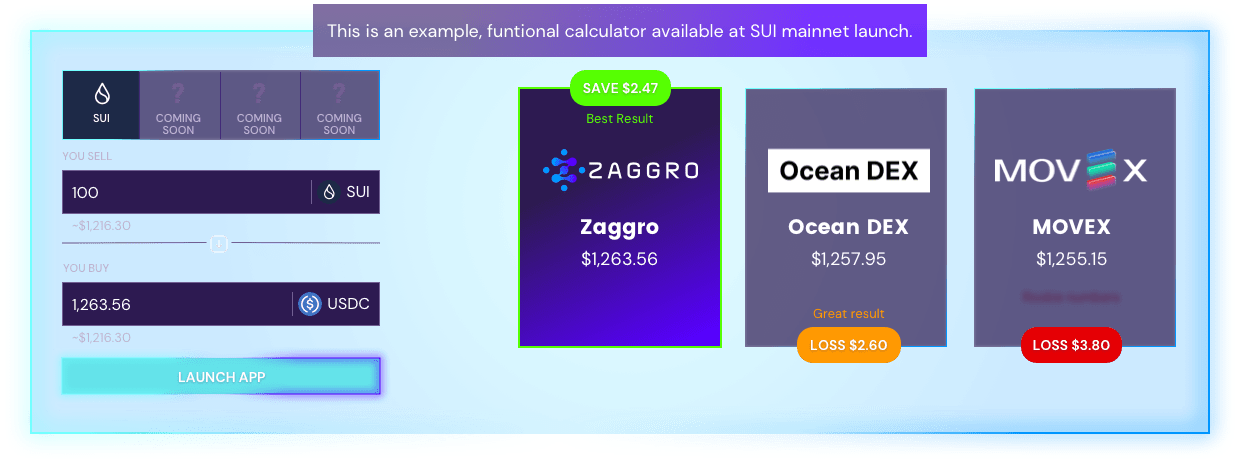
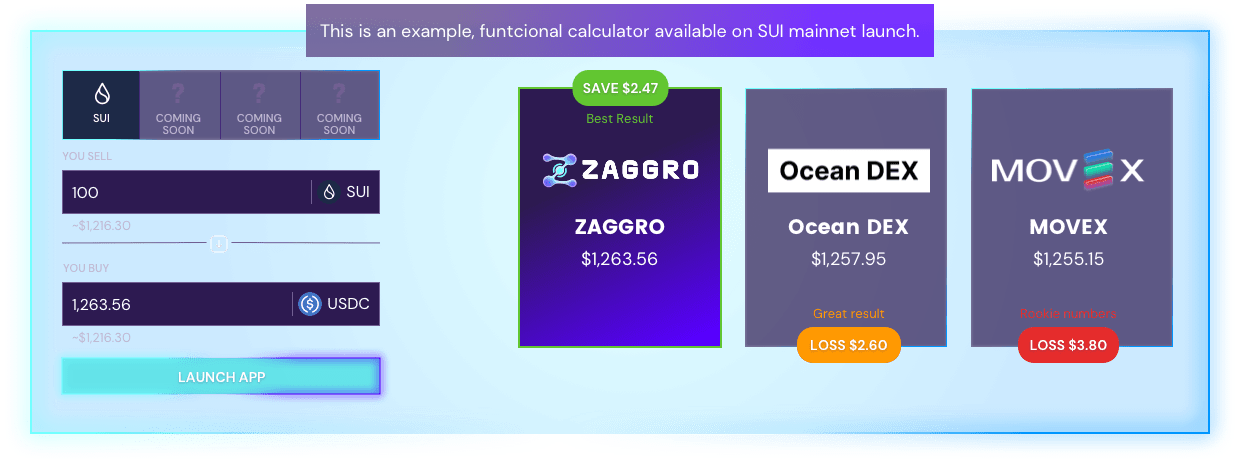
Replace images

diff --git a/components/Homepage/Calculator/Calculator.tsx b/components/Homepage/Calculator/Calculator.tsx
@@ -8,20 +8,21 @@ interface CalculatorProps {
 }
 
 function Calculator({ className }: CalculatorProps) {
-  const { isTablet } = useViewportSize()
+  const { isPhablet } = useViewportSize()
 
   return (
     <section className={clsx(styles.root, className)}>
       <SectionHeader title="ZAGGRO gives you MORE" />
       <div className={styles.imageContainer}>
-        {isTablet ? (
+        {isPhablet ? (
           <img
-            src="/images/screenshots/calculator-desktop.png"
+            src="/images/screenshots/calculator-desktop@2.png"
             alt="Preview of the ZAGGRO calculator"
+            className={styles.desktopImage}
           />
         ) : (
           <img
-            src="/images/screenshots/calculator-mobile.png"
+            src="/images/screenshots/calculator-mobile@2.png"
             alt="Preview of the ZAGGRO calculator"
             className={styles.mobileImage}
           />

diff --git a/components/Homepage/AppPreview/AppPreview.tsx b/components/Homepage/AppPreview/AppPreview.tsx
@@ -6,15 +6,16 @@ interface AppPreviewProps {
   className?: string
 }
 
-// TODO: Replace with a real preview once we have design
+// TODO: Mobile app preview
 function AppPreview({ className }: AppPreviewProps) {
   return (
     <section className={clsx(styles.root, className)}>
       <SectionHeader title="ZAGGRO Protocol Preview" />
-      <div className={styles.image}>
+      <div className={styles.imageContainer}>
         <img
-          src="/images/screenshots/platform-desktop.png"
-          alt="Preview of the ZAGGRO calculator"
+          src="/images/screenshots/platform-desktop@2.png"
+          alt="Preview of the ZAGGRO application"
+          className={styles.image}
         />
       </div>
     </section>

diff --git a/components/Navbar/MobileNav/MobileNav.tsx b/components/Navbar/MobileNav/MobileNav.tsx
@@ -30,7 +30,7 @@ function MobileNav({ className }: MobileNavProps) {
     <nav className={clsx(styles.root, open && styles.open, className)}>
       <div className={styles.container}>
         <Image
-          src="/images/logo/zaggro-mobile.png"
+          src="/images/logo/zaggro.png"
           alt="ZAGGRO logo"
           width={161}
           height={44}

diff --git a/components/Navbar/DesktopNav/DesktopNav.tsx b/components/Navbar/DesktopNav/DesktopNav.tsx
@@ -15,7 +15,7 @@ function DesktopNav({ className }: DesktopNavProps) {
   return (
     <nav className={clsx(styles.root, className)}>
       <Image
-        src="/images/logo/zaggro-desktop.png"
+        src="/images/logo/zaggro@2.png"
         alt="ZAGGRO logo"
         width={300}
         height={82}

diff --git a/components/Homepage/Calculator/Calculator.module.scss b/components/Homepage/Calculator/Calculator.module.scss
@@ -6,9 +6,12 @@
   cursor: not-allowed;
 }
 
+.desktopImage {
+  max-width: 73.75rem;
+  width: 100%;
+}
+
 .mobileImage {
   max-width: 22.3125rem;
-  @include breakpoint('lg') {
-    max-width: none;
-  }
+  width: 100%;
 }

diff --git a/components/Navbar/DesktopNav/DesktopNav.module.scss b/components/Navbar/DesktopNav/DesktopNav.module.scss
@@ -25,7 +25,7 @@
   width: 12.5rem;
   height: auto;
   @include headerMediaQuery {
-    width: initial;
+    width: 14.25rem;
     height: initial;
   }
 }

diff --git a/components/Homepage/AppPreview/AppPreview.module.scss b/components/Homepage/AppPreview/AppPreview.module.scss
@@ -1,0 +1,9 @@
+.imageContainer {
+  display: flex;
+  justify-content: center;
+}
+
+.image {
+  max-width: 69.75rem;
+  width: 100%;
+}
